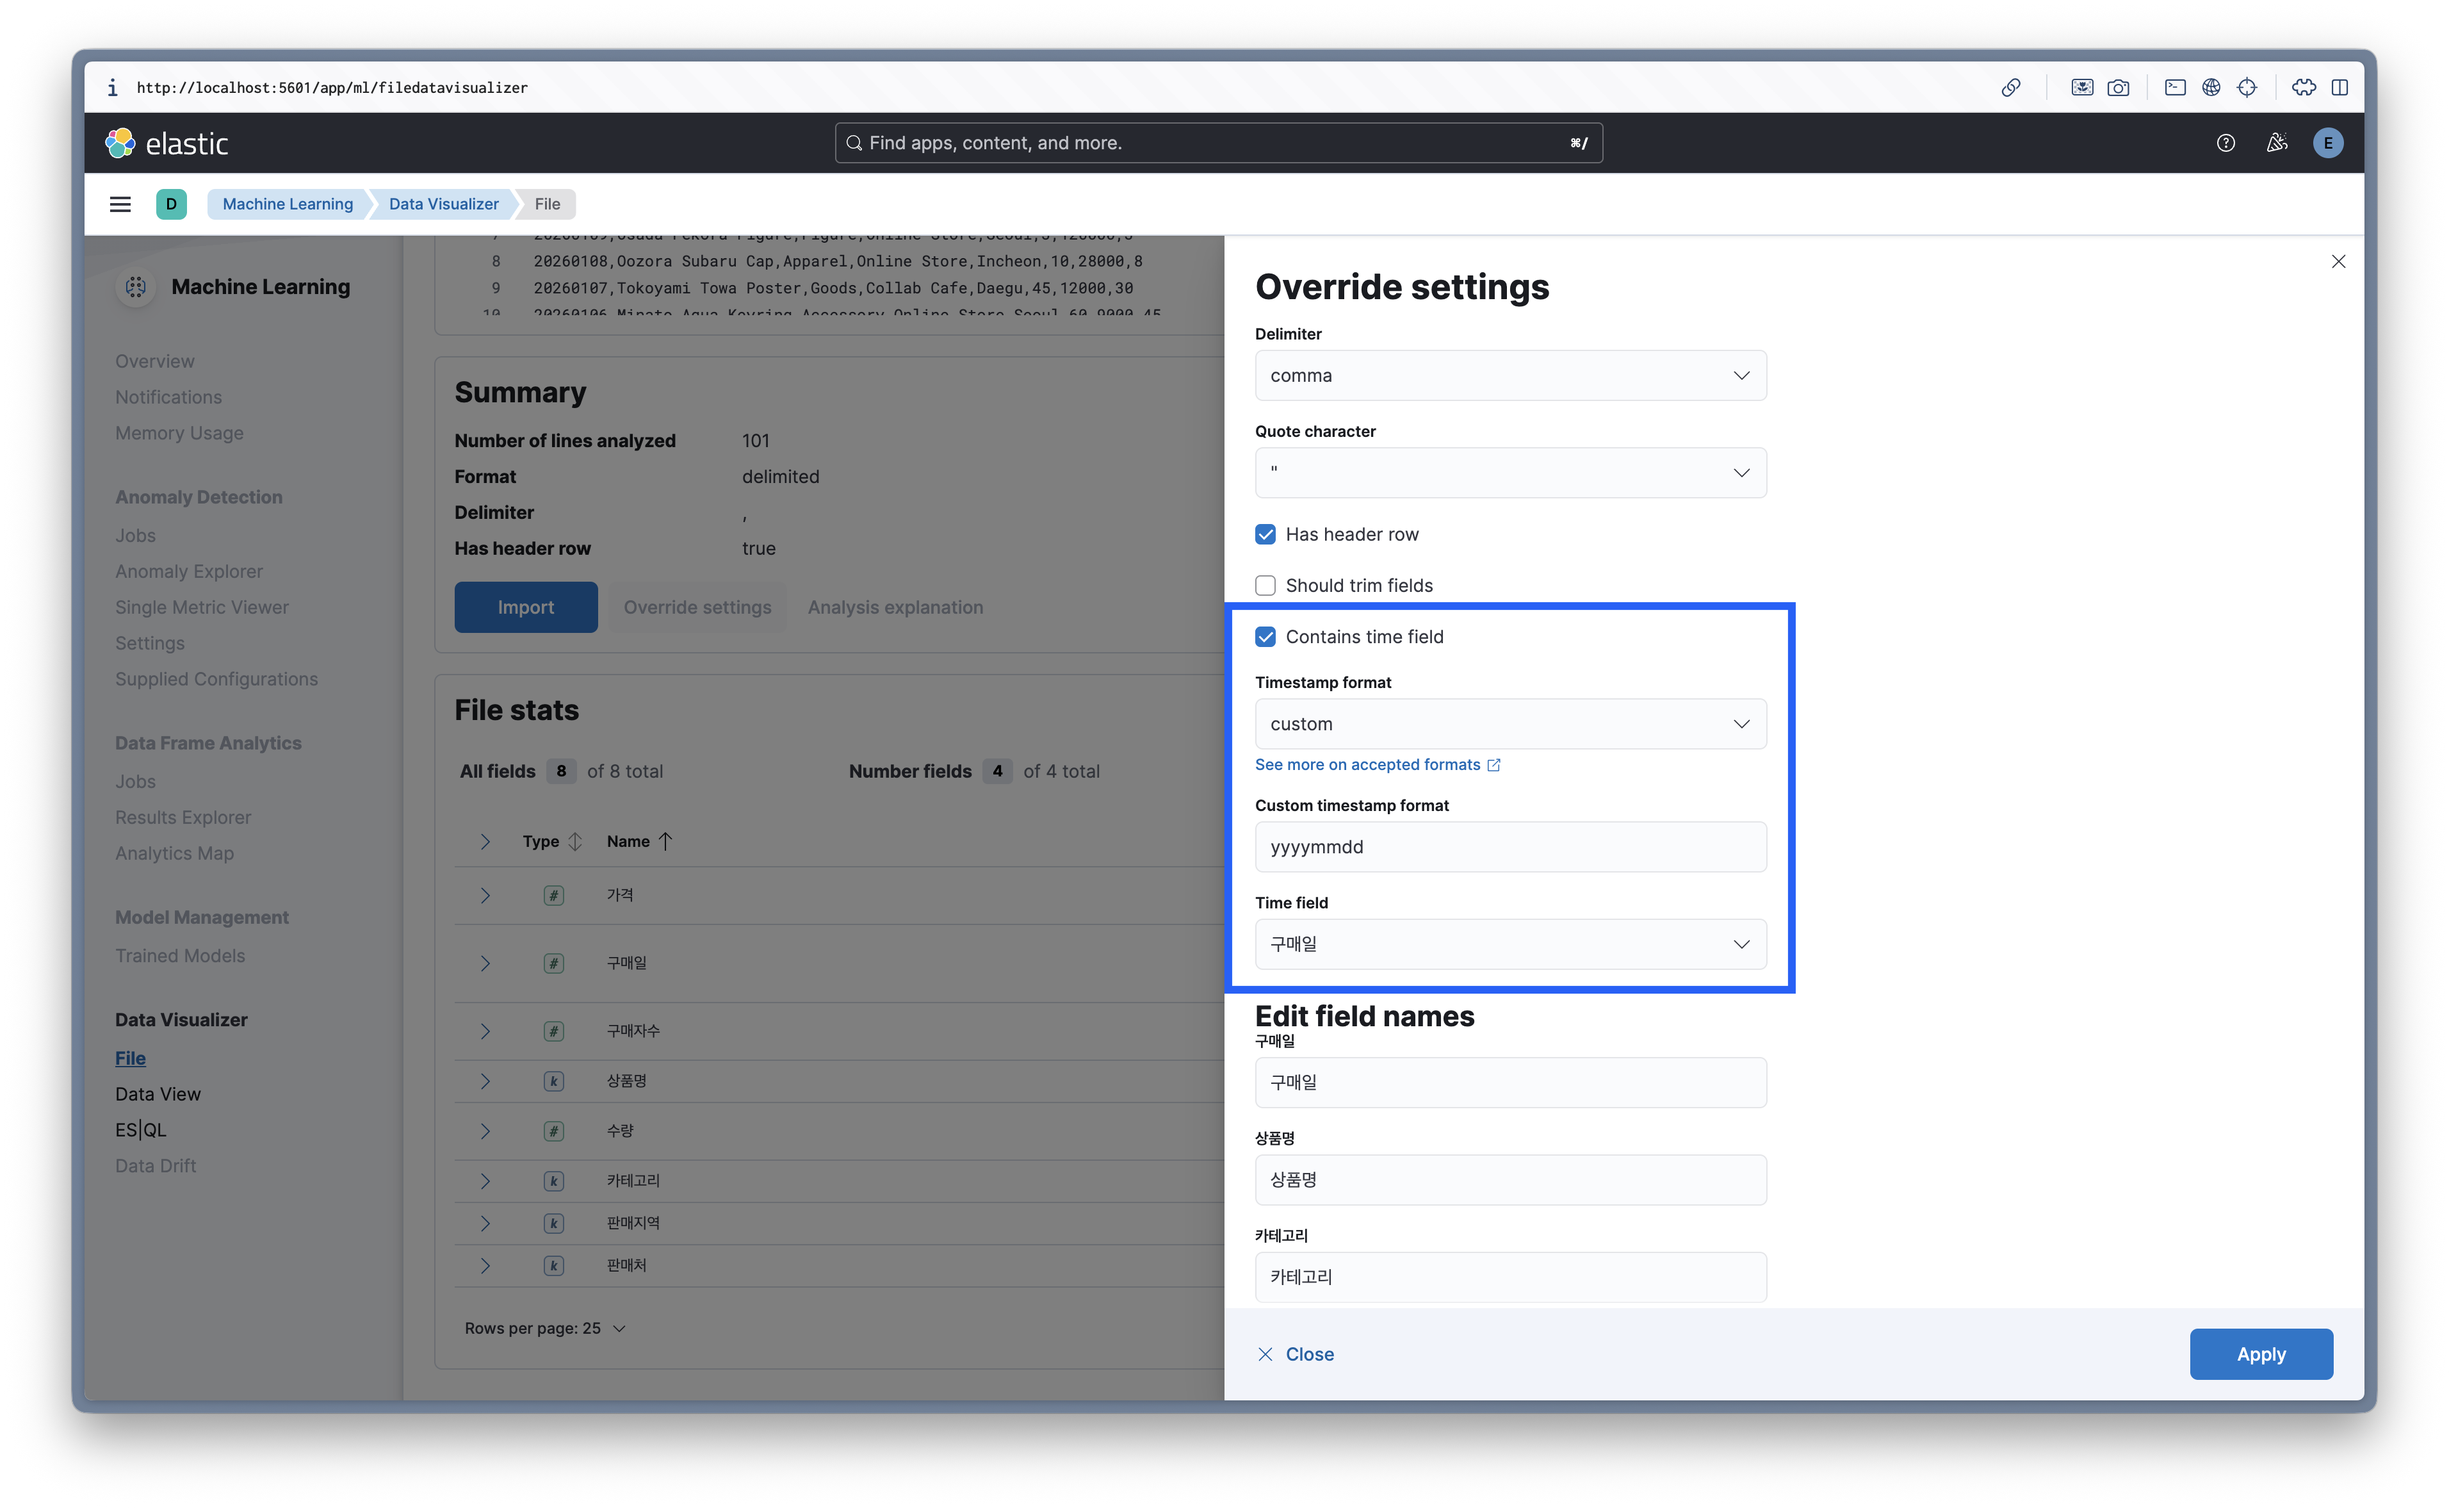
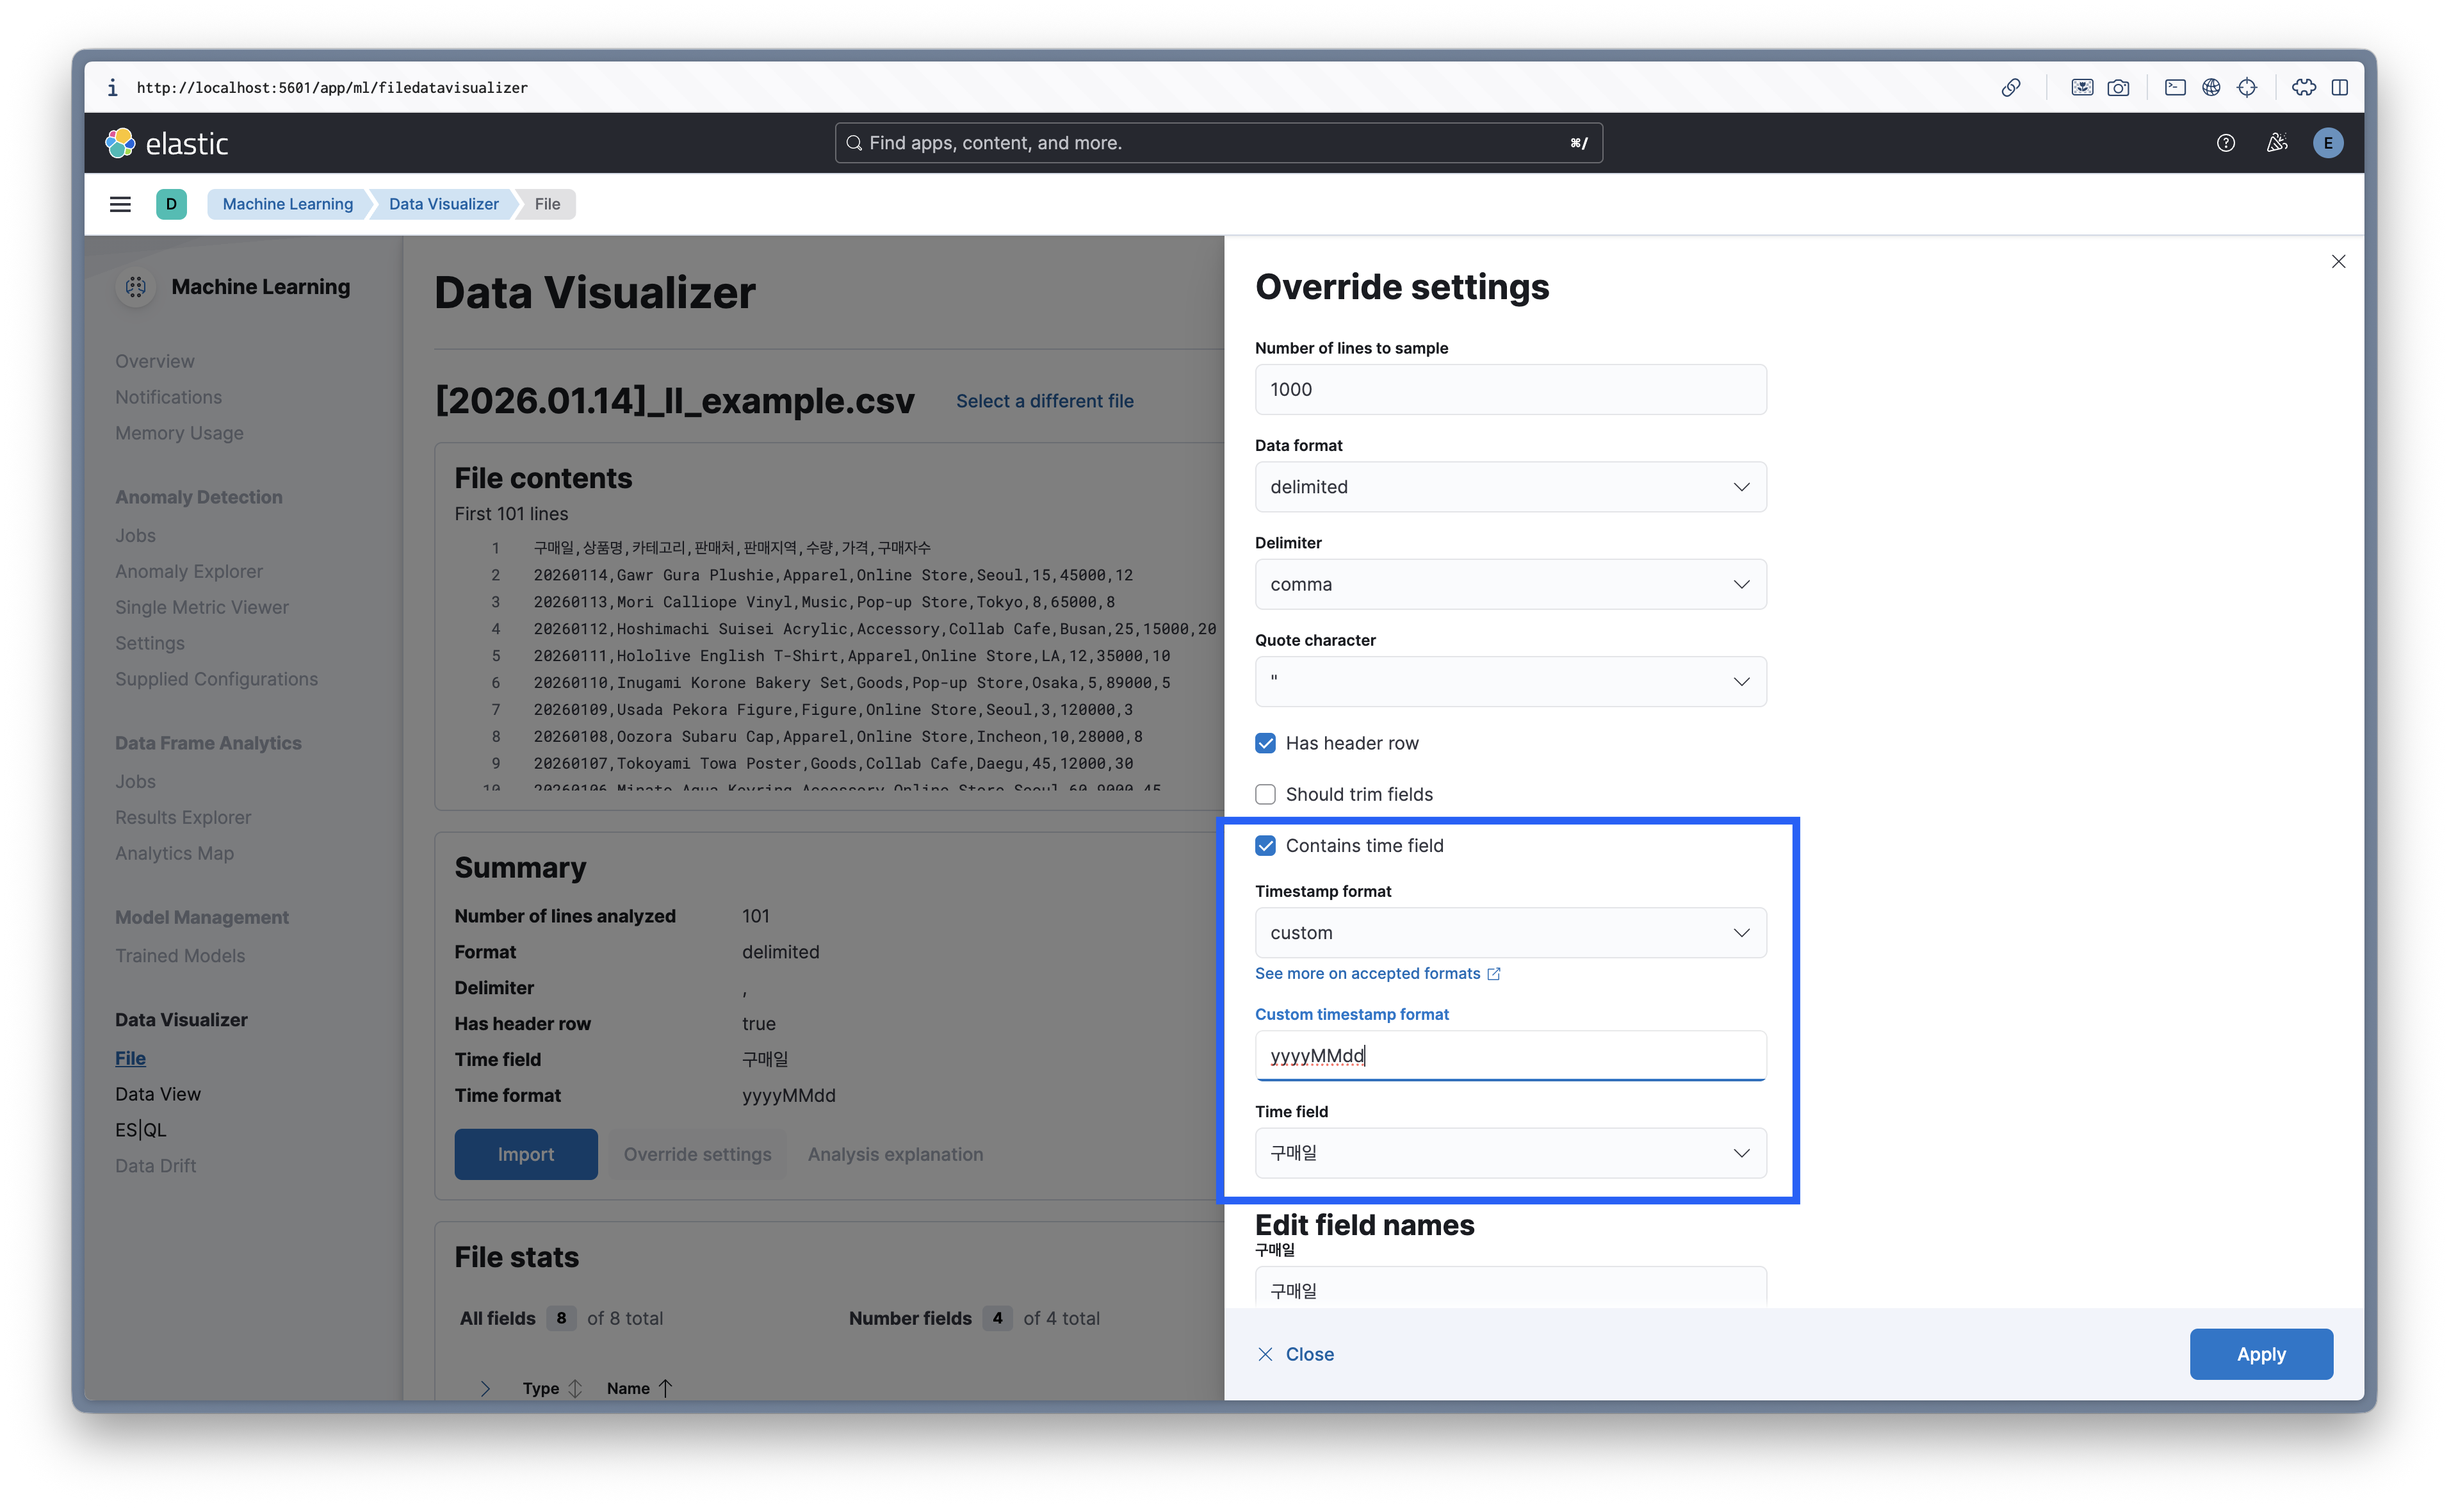
[2026.01.14] fix: typo

diff --git a/03_Lectures_Summary/01_Web_Service/ELK/[2026.01.14]_II_Kibana_ES_Viz.md b/03_Lectures_Summary/01_Web_Service/ELK/[2026.01.14]_II_Kibana_ES_Viz.md
@@ -42,7 +42,7 @@
 
 ### 2.3 `Override settings` → `Contains time field` 체크 후 시계열 필드 설정
 
-* 예제 데이터의 시간 포맷과 필드를 지정 (`yyyymmdd` 타입이므로 수동으로 지정 필요)
+* 예제 데이터의 시간 포맷과 필드를 지정 (`yyyyMMdd` 타입이므로 수동으로 지정 필요)
 
     ![00_5](./Images/00_5.png)
 
